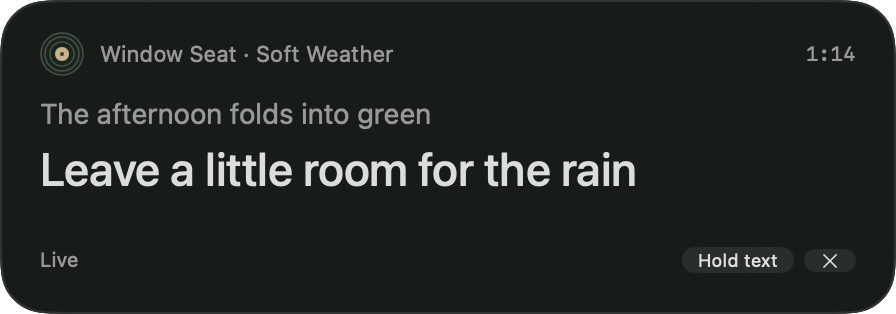
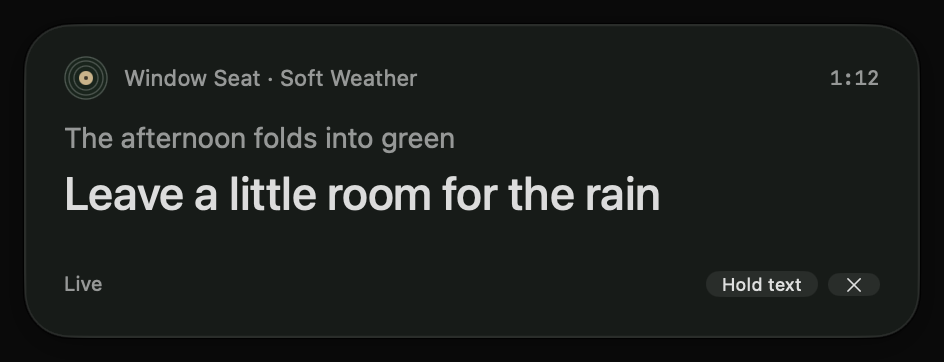
Apply restrained Liquid Glass to the lyric ribbon
Use a single regular glass shell with a charcoal-green fill that preserves small-text contrast over bright desktops. Retain opaque accessibility fallbacks and the AppKit window behavior. Record native backdrop, contrast, focus and keyboard validation with updated captures.

diff --git a/Bopify/Bopify/Lyrics/LyricRibbonView.swift b/Bopify/Bopify/Lyrics/LyricRibbonView.swift
@@ -97,12 +97,17 @@ struct LyricRibbonView: View {
             if reduceTransparency || contrast == .increased {
                 shape.fill(Color(nsColor: .windowBackgroundColor))
             } else {
-                shape.fill(.regularMaterial)
-                    .overlay(shape.fill(Color(red: 0.08, green: 0.10, blue: 0.085).opacity(0.86)))
+                shape.fill(Color(red: 0.08, green: 0.10, blue: 0.085).opacity(0.75))
+                    .glassEffect(.regular, in: shape)
             }
         }
-        .overlay(RoundedRectangle(cornerRadius: 24, style: .continuous)
-            .strokeBorder(.primary.opacity(contrast == .increased ? 0.5 : 0.13), lineWidth: 1).allowsHitTesting(false))
+        .overlay {
+            if reduceTransparency || contrast == .increased {
+                RoundedRectangle(cornerRadius: 24, style: .continuous)
+                    .strokeBorder(.primary.opacity(contrast == .increased ? 0.5 : 0.13), lineWidth: 1)
+                    .allowsHitTesting(false)
+            }
+        }
         .preferredColorScheme(.dark)
         .onHover { hovered = $0 }
         .onChange(of: model.keyboardSelection) { _, selection in focusedControl = selection }

diff --git a/docs/lyric-ribbon-native-validation.md b/docs/lyric-ribbon-native-validation.md
@@ -43,13 +43,25 @@ Native testing caught and corrected first-click rejection, hidden controls in ex
 
 ## Visual evidence
 
-The native surface retains the approved browser study's compact silhouette, dark vinyl palette, rounded edge and text hierarchy. Native system text is slightly different from browser text rendering; previous and current cues remain visually distinct. Larger text grows the reserved viewport rather than clipping the line.
+The native surface retains the approved browser study's compact silhouette, dark vinyl palette, rounded edge and text hierarchy. The approved glass follow-up replaces the standard-material background and 86%-opacity dark overlay with one regular Liquid Glass effect and a 75%-opacity charcoal-green fill. The glass supplies its own edge; the explicit border remains only for the opaque accessibility fallback. Typography, the vinyl mark, warm accents and the AppKit window/text bridges remain intact. The implementation follows Apple's [custom glass API](https://developer.apple.com/documentation/swiftui/applying-liquid-glass-to-custom-views).
+
+Native system text is slightly different from browser text rendering; previous and current cues remain visually distinct. Larger text grows the reserved viewport rather than clipping the line. The captures below use the actual ribbon sources in a disposable native harness over owned backdrops. They capture composited screen pixels: window-only captures omit the desktop blending and misleadingly show a flat dark surface.
 
 ![Native quiet ribbon](mockups/lyric-ribbon-native-live.png)
 
 ![Native reading state](mockups/lyric-ribbon-native-reading.png)
 
 ![Native larger text](mockups/lyric-ribbon-native-large.png)
+
+![Glass over a light backdrop](mockups/lyric-ribbon-glass-light.png)
+
+![Glass over a patterned backdrop](mockups/lyric-ribbon-glass-busy.png)
+
+Dark, white and saturated patterned backdrops were inspected. The first untinted glass pass was too bright over white, so the charcoal fill was tuned for small text. A spot check of solid glyph pixels against the uniform background in the final white-backdrop capture measured approximately 4.58:1 for metadata, the previous cue and status. This is a controlled screenshot measurement, not a complete contrast audit across all desktop content.
+
+The same native harness injected Reduce Transparency and Increased Contrast environment values without changing system preferences. Both select the opaque surface; Increased Contrast adds the stronger border. The [reduced-transparency capture](mockups/lyric-ribbon-glass-reduced-transparency.png) and [increased-contrast capture](mockups/lyric-ribbon-glass-increased-contrast.png) record those branches. System-setting propagation remains unverified end to end.
+
+In the rebuilt app, actual pointer activation of Hold text kept TextEdit frontmost with its `AXTextArea` focused. Actual header dragging moved the panel by the requested 20 horizontal and 10 vertical points while TextEdit remained frontmost. Tab/Space returned the native reading toggle to value 0; Escape hid the ribbon and reopening succeeded. The final code passed all 51 tests and Debug/Release builds again. The focused review found no correctness issues.
 
 ## Remaining manual coverage
 
@@ -61,4 +73,4 @@ Hold text now uses a native [button-style Toggle](https://developer.apple.com/do
 
 VoiceOver speech/navigation, fullscreen Spaces, physical display disconnection, and changed system Reduce Transparency/Increase Contrast settings were not exercised end to end. Accessibility structure and display-recovery geometry were checked separately; these do not establish those broader results. The study should receive those manual checks before its native experience is treated as release-ready.
 
-The appearance was inspected over the current desktop and a light TextEdit document. No claim is made about every desktop background or screen-sharing configuration. Live lyric sourcing, provider matching, rights and Spotify integration remain outside this increment.
+The appearance was inspected over the current desktop, a light TextEdit document and the controlled dark, white and patterned backdrops above. No claim is made about every desktop background or screen-sharing configuration. Live lyric sourcing, provider matching, rights and Spotify integration remain outside this increment.

diff --git a/docs/lyric-ribbon-research.md b/docs/lyric-ribbon-research.md
@@ -66,7 +66,7 @@ These sizes are exploration choices, not platform requirements or final geometry
 
 The user selected A and requested a clean retro appearance that matches the app. The [refined quiet ribbon study](mockups/lyric-ribbon-retro.html) uses warm charcoal, ivory lyric text, a small grooved record mark and a muted paper-label accent for the held-reading action. The shape follows Bopify's soft surfaces and capsule controls; lyrics retain system typography and an undecorated background. These choices draw on [PlayerSurface](../Bopify/Bopify/Views/PlayerSurface.swift), [VinylPressingView](../Bopify/Bopify/Views/VinylPressingView.swift) and [PlayerControlButtonStyle](../Bopify/Bopify/Views/PlayerControlButtonStyle.swift). The browser study starts with controls visible for review; its toggle demonstrates the quieter hover/focus reveal. Selecting this visual direction does not settle panel behavior, source access or the native implementation design.
 
-Apple's current material guidance distinguishes standard materials for content from Liquid Glass for controls and navigation. The proposed lyric surface should use a sufficiently opaque standard material; any glass treatment belongs sparingly on its functional controls. Thicker materials can improve contrast for text. A browser blur or a glass-heavy appearance alone would not establish conformity with that guidance. [Apple Human Interface Guidelines Materials](https://developer.apple.com/design/human-interface-guidelines/materials).
+Apple's current material guidance distinguishes standard materials for content from Liquid Glass for controls and navigation. The initial recommendation was a sufficiently opaque standard material for lyrics, with glass used sparingly on functional controls. Thicker materials can improve contrast for text. A browser blur or a glass-heavy appearance alone would not establish conformity with that guidance. The user subsequently approved a single glass shell with a contrast-preserving charcoal fill; see the [native validation](lyric-ribbon-native-validation.md) for actual backdrop captures and accessibility fallback coverage. [Apple Human Interface Guidelines Materials](https://developer.apple.com/design/human-interface-guidelines/materials).
 
 The study starts A with roughly 23-point primary lyric text and 14-point preceding text, plus smaller track metadata and controls. Those sizes need testing at actual desktop viewing distance and with larger text. Prefer semantic system colors over artwork-derived lyric colors, and provide opaque backgrounds when transparency is reduced. [Apple Human Interface Guidelines Typography](https://developer.apple.com/design/human-interface-guidelines/typography).
 

diff --git a/docs/superpowers/specs/2026-10-17-lyric-ribbon-design.md b/docs/superpowers/specs/2026-10-17-lyric-ribbon-design.md
@@ -18,7 +18,7 @@ Use the approved visual hierarchy: small record mark and track identity across t
 
 Start with a 448-point width, approximately 23-point current text, 14-point previous text and a 24-point continuous corner radius. These are design starting values, not fixed platform requirements. Use system typography, tabular time digits and a sufficiently opaque content material. Warm ivory and charcoal are palette goals; native semantic colors and tested contrast take priority over literal browser hex values. The record mark carries the vinyl detail; keep the lyric area free of grooves, grain and animated decoration.
 
-The surface should look related to [PlayerSurface](../../../Bopify/Bopify/Views/PlayerSurface.swift), [VinylPressingView](../../../Bopify/Bopify/Views/VinylPressingView.swift) and [PlayerControlButtonStyle](../../../Bopify/Bopify/Views/PlayerControlButtonStyle.swift). Do not alter those existing components merely to implement the ribbon. Standard materials suit content; reserve glass effects for controls where useful. [Apple Materials guidance](https://developer.apple.com/design/human-interface-guidelines/materials).
+The surface should look related to [PlayerSurface](../../../Bopify/Bopify/Views/PlayerSurface.swift), [VinylPressingView](../../../Bopify/Bopify/Views/VinylPressingView.swift) and [PlayerControlButtonStyle](../../../Bopify/Bopify/Views/PlayerControlButtonStyle.swift). Do not alter those existing components merely to implement the ribbon. In the approved October 17 follow-up, use one regular Liquid Glass effect for the outer shell with a 75%-opacity charcoal-green fill to preserve text contrast. Keep the typography, vinyl mark and warm accents, use no additional glass on the inner controls, and retain the opaque accessibility fallback. Apple recommends applying glass sparingly. [Apple Materials guidance](https://developer.apple.com/design/human-interface-guidelines/materials).
 
 Allow cues to wrap. Determine the text viewport height once for each document and text-size choice from its largest previous/current cue pair, bounded by the screen's available height. Keep this height stable during playback. If a passage exceeds the available height, allow vertical scrolling within the text area; Hold text preserves its scroll position, and Back to live resets to the current cue. Keep metadata and controls outside the scrolling area. Do not use horizontal marquees or silently ellipsize lyric text.
 
